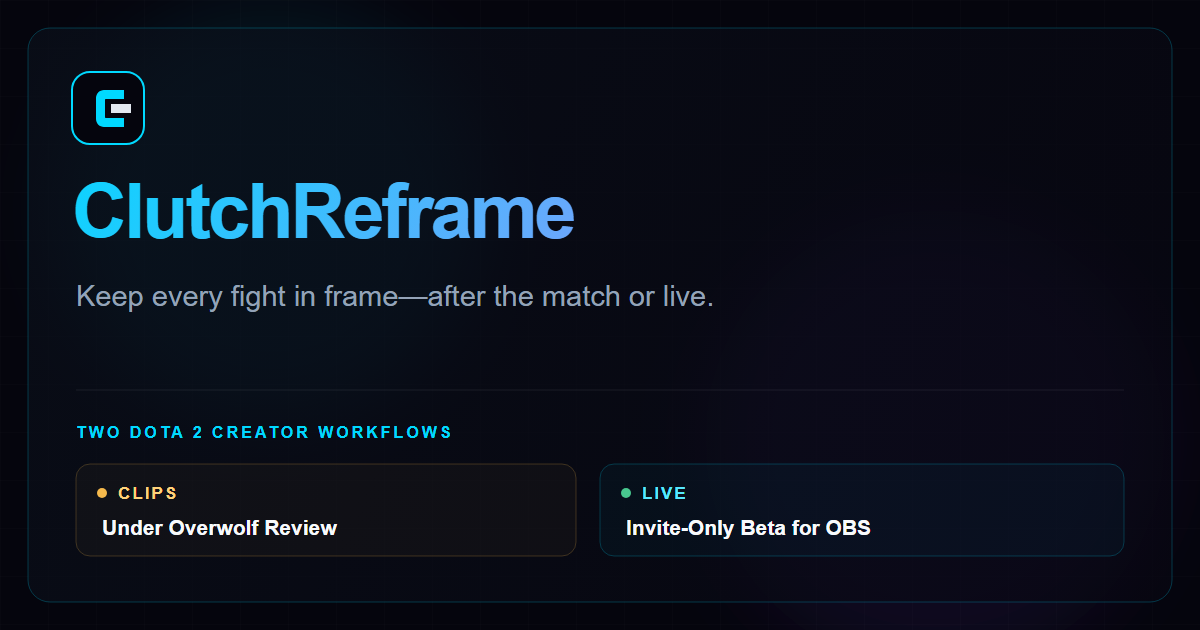
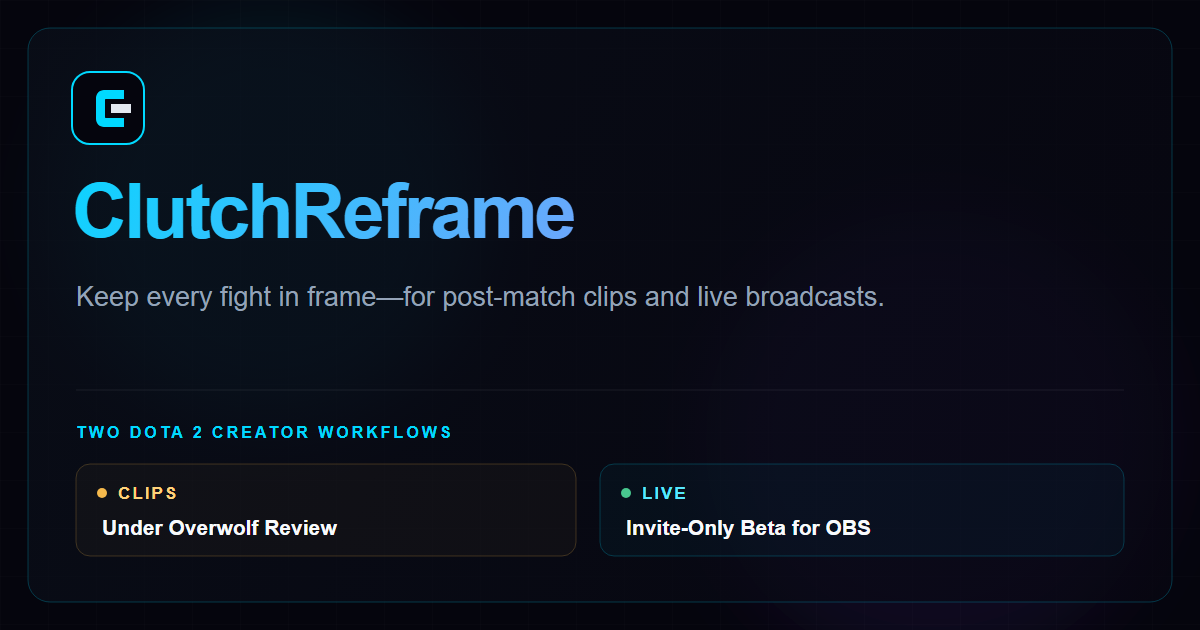
修改网站内容

Changed region(s): [[0.0617, 0.4524, 0.74, 0.5127]]

diff --git a/index.html b/index.html
@@ -3,14 +3,14 @@
 <head>
     <meta charset="UTF-8">
     <meta name="viewport" content="width=device-width, initial-scale=1.0">
-    <meta name="description" content="ClutchReframe keeps Dota 2 action in frame: capture and reframe highlights after the match with Clips, or follow fights live in OBS with Live.">
+    <meta name="description" content="ClutchReframe for Dota 2: Clips captures highlights in-game and creates 9:16 videos after the match; Live automatically reframes OBS broadcasts in real time.">
     <meta name="theme-color" content="#05050d">
     <meta name="referrer" content="no-referrer">
     <meta http-equiv="Content-Security-Policy" content="default-src 'self'; img-src 'self' data:; media-src 'none'; style-src 'self'; font-src 'self'; script-src 'none'; connect-src 'self'; frame-src 'none'; object-src 'none'; base-uri 'self'; form-action 'none'; upgrade-insecure-requests">
 
     <meta property="og:type" content="website">
     <meta property="og:title" content="ClutchReframe | Dota 2 Clips &amp; Live Reframing">
-    <meta property="og:description" content="Keep Dota 2 action in frame after the match with Clips or live inside OBS with ClutchReframe Live.">
+    <meta property="og:description" content="Clips captures Dota 2 highlights in-game and creates 9:16 videos after the match; Live automatically reframes broadcasts in OBS.">
     <meta property="og:url" content="https://clutchreframe.com/">
     <meta property="og:image" content="https://clutchreframe.com/og-image.png">
     <meta property="og:image:alt" content="ClutchReframe Clips and Live for Dota 2 — vertical content tools for highlights and live streams">
@@ -20,7 +20,7 @@
 
     <meta name="twitter:card" content="summary_large_image">
     <meta name="twitter:title" content="ClutchReframe | Dota 2 Clips &amp; Live Reframing">
-    <meta name="twitter:description" content="Keep Dota 2 action in frame after the match with Clips or live inside OBS with ClutchReframe Live.">
+    <meta name="twitter:description" content="Clips captures Dota 2 highlights in-game and creates 9:16 videos after the match; Live automatically reframes broadcasts in OBS.">
     <meta name="twitter:image" content="https://clutchreframe.com/og-image.png">
     <meta name="twitter:image:alt" content="ClutchReframe Clips and Live for Dota 2 — vertical content tools for highlights and live streams">
 
@@ -67,13 +67,13 @@
             <p class="eyebrow">ClutchReframe for Dota&nbsp;2</p>
 
             <h1 class="hero-title gradient-text" id="hero-title">
-                Keep every fight in frame—after the match or live.
+                Keep every fight in frame—for post-match clips and live broadcasts.
             </h1>
 
             <p class="hero-subtitle">
                 ClutchReframe turns Dota&nbsp;2 gameplay into creator-ready vertical content.
-                Clips captures and reframes highlights after the match; Live follows the action
-                in real time inside OBS.
+                Clips captures highlight footage during the match and creates 9:16 videos after the match;
+                Live automatically reframes the OBS broadcast in real time.
             </p>
 
             <div class="hero-actions">
@@ -100,7 +100,7 @@
             <header class="section-header">
                 <p class="section-label">Clips + Live</p>
                 <h2 class="section-title gradient-text" id="products-title">Two ways to reframe the action.</h2>
-                <p class="section-desc">Create a finished highlight after the match or direct a vertical broadcast while the fight is happening.</p>
+                <p class="section-desc">Capture highlights while you play and turn them into 9:16 videos after the match—or automatically reframe the OBS broadcast while the match is live.</p>
             </header>
 
             <div class="product-grid">
@@ -111,14 +111,14 @@
                             <span>Dota&nbsp;2</span>
                         </div>
 
-                        <h3>Capture the moment. Finish it after the match.</h3>
-                        <p>ClutchReframe Clips automatically captures Dota&nbsp;2 highlights through Overwolf, lets you review each session, and creates local 9:16 videos ready to share.</p>
+                        <h3>Capture in-game. Create after the match.</h3>
+                        <p>Built on Overwolf, ClutchReframe Clips automatically captures Dota&nbsp;2 highlight footage while you play. After the match, local visual analysis tracks the action and turns each highlight into a share-ready 9:16 vertical video.</p>
 
                         <ul class="product-tags" aria-label="ClutchReframe Clips platform and capabilities">
                             <li>Windows</li>
                             <li>Overwolf</li>
-                            <li>Highlight Capture</li>
-                            <li>9:16 Export</li>
+                            <li>In-Match Capture</li>
+                            <li>Post-Match 9:16</li>
                         </ul>
                     </div>
 
@@ -143,7 +143,7 @@
                         </div>
 
                         <h3>Follow the fight as it happens.</h3>
-                        <p>ClutchReframe Live analyzes visible action in real time, then pans—and optionally zooms—the vertical OBS output while your own Dota&nbsp;2 view stays unchanged.</p>
+                        <p>ClutchReframe Live uses local visual analysis and an OBS video filter to automatically reframe Dota&nbsp;2 broadcasts in real time, with smooth pan and optional zoom while your own game view stays unchanged.</p>
 
                         <ul class="product-tags" aria-label="ClutchReframe Live platform and capabilities">
                             <li>Windows</li>
@@ -169,23 +169,23 @@
             <header class="section-header">
                 <p class="section-label">Shared by Both Products</p>
                 <h2 class="section-title gradient-text" id="principles-title">Built around the creator, not the crop.</h2>
-                <p class="section-desc">Both Dota&nbsp;2 tools are designed for vertical-first creation on Windows, with gameplay media processed on your own PC.</p>
+                <p class="section-desc">Both Dota&nbsp;2 tools use local visual analysis on Windows to reframe important action for creator-ready vertical output.</p>
             </header>
 
             <div class="principle-grid">
                 <article class="principle-card">
                     <h3>Action-aware framing</h3>
-                    <p>Important Dota&nbsp;2 action stays at the center of the vertical frame without manual keyframing through every fight.</p>
+                    <p>Local visual analysis follows important Dota&nbsp;2 action and keeps key combat details within the output frame—without manual keyframing.</p>
                 </article>
 
                 <article class="principle-card">
                     <h3>Vertical-first creation</h3>
-                    <p>Generate a 9:16 highlight to share after the match or a vertical OBS output while the match is live.</p>
+                    <p>Clips creates share-ready 9:16 videos after the match; Live creates an automatically reframed vertical OBS output while the match is live.</p>
                 </article>
 
                 <article class="principle-card">
                     <h3>Local gameplay processing</h3>
-                    <p>Gameplay video analysis and reframing happen on your Windows PC; footage is not uploaded for camera decisions.</p>
+                    <p>Highlight videos, live gameplay frames, and reframing decisions are processed on your Windows PC; gameplay footage is not uploaded by either product.</p>
                 </article>
             </div>
         </div>
@@ -196,7 +196,7 @@
             <header class="section-header">
                 <p class="section-label">One Goal, Two Workflows</p>
                 <h2 class="section-title gradient-text" id="workflow-title">Create on your timeline.</h2>
-                <p class="section-desc">Start with the same widescreen Dota&nbsp;2 action, then choose when the vertical story comes together.</p>
+                <p class="section-desc">Clips captures during play and reframes after the match; Live analyzes and reframes the broadcast as the match happens.</p>
             </header>
 
             <div class="workflow-map">
@@ -212,11 +212,11 @@
                     <article class="workflow-lane workflow-lane-clips">
                         <div class="workflow-lane-header">
                             <h3 class="workflow-product">Clips</h3>
-                            <span class="workflow-timing">After the match</span>
+                            <span class="workflow-timing">During + after the match</span>
                         </div>
                         <ol class="workflow-steps" aria-label="ClutchReframe Clips workflow">
-                            <li><span>01</span>Capture</li>
-                            <li><span>02</span>Review</li>
+                            <li><span>01</span>In-match capture</li>
+                            <li><span>02</span>Post-match reframe</li>
                             <li><span>03</span>Export 9:16</li>
                         </ol>
                     </article>
@@ -227,8 +227,8 @@
                             <span class="workflow-timing">During the match</span>
                         </div>
                         <ol class="workflow-steps" aria-label="ClutchReframe Live workflow">
-                            <li><span>01</span>Analyze</li>
-                            <li><span>02</span>Reframe</li>
+                            <li><span>01</span>Analyze live</li>
+                            <li><span>02</span>Pan + zoom</li>
                             <li><span>03</span>Output in OBS</li>
                         </ol>
                     </article>
